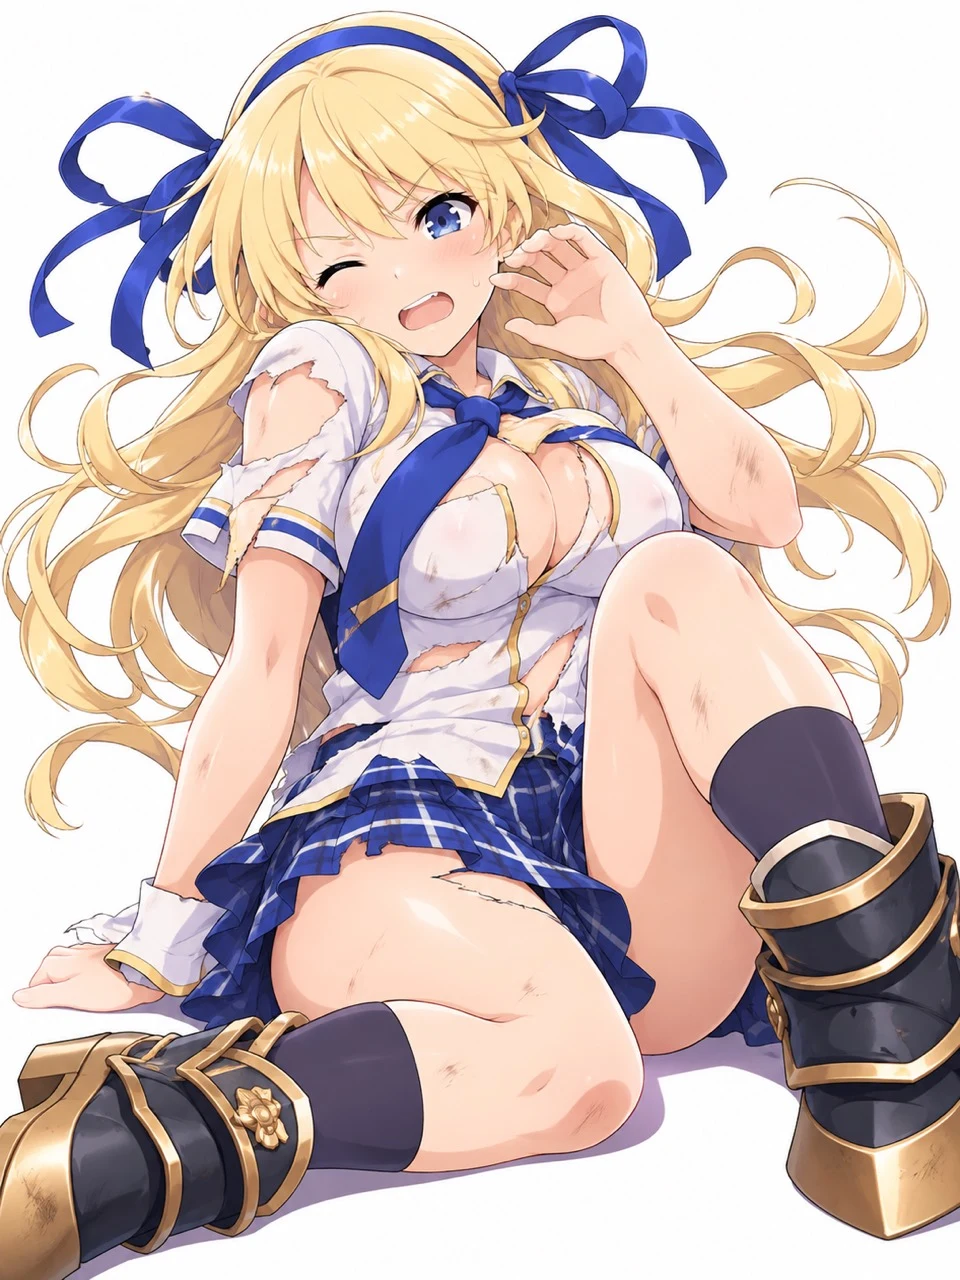
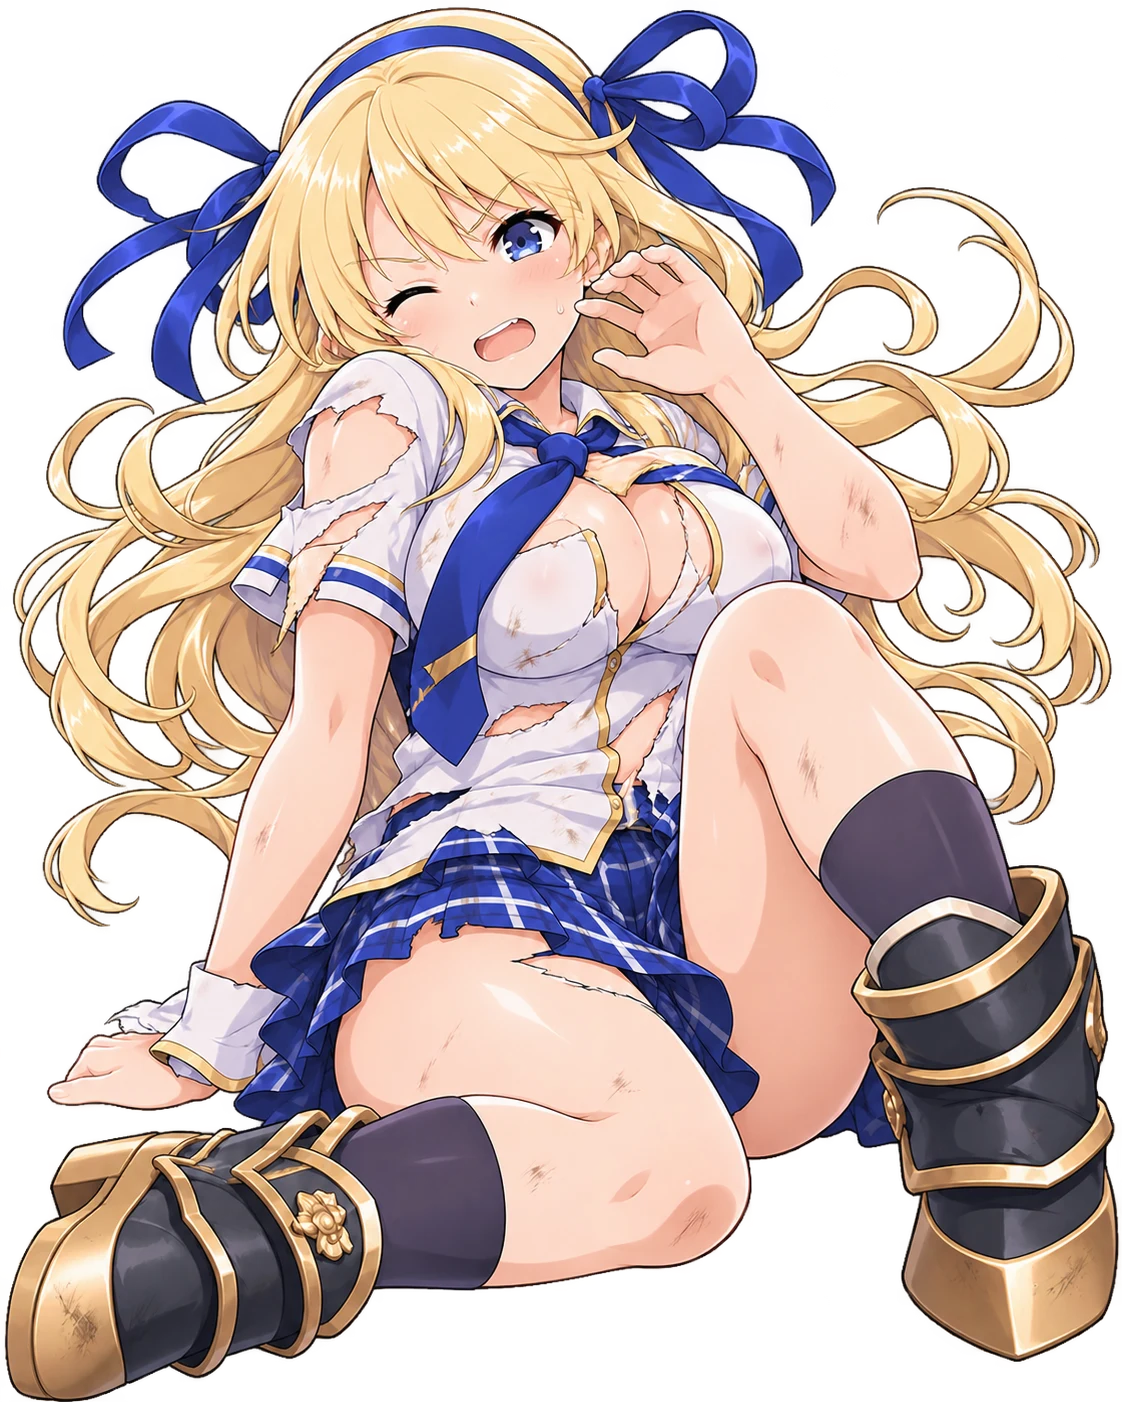
Use transparent backgrounds for character artwork

diff --git a/index.html b/index.html
@@ -1904,7 +1904,7 @@ if(typeof module!=='undefined'&&module.exports)module.exports=Solver; else root.
    - 記録は人間・CPUの区別なく全判断を含む。再生は記録を使い切ったら
      元のコントローラ（人間／CPU）に引き継ぐ（＝ログからの再開）
    ========================================================= */
-const UI_VER='演出v3.1';
+const UI_VER='演出v3.2';
 (function(root){
 const LOG_VERSION='v'+CONFIG.ruleVersion;
 
@@ -2458,11 +2458,11 @@ function nvGauge(p,z){const arr=z==='yo'?p.gYo:p.gIn;
 // Presentation-only artwork mapping. Each character level has its own image slot.
 // Lv1-Lv5 currently point to the same file; replace individual entries to add unique art later.
 const UVS_CHAR_ART_PATH=Object.freeze({
-  '飛鳥':Object.freeze([null,'./assets/characters/asuka.webp?v=3.0','./assets/characters/asuka.webp?v=3.0','./assets/characters/asuka.webp?v=3.0','./assets/characters/asuka-lv4.webp','./assets/characters/asuka-lv4.webp']),
-  '斑鳩':Object.freeze([null,'./assets/characters/ikaruga.webp','./assets/characters/ikaruga.webp','./assets/characters/ikaruga.webp','./assets/characters/ikaruga-lv4.webp','./assets/characters/ikaruga-lv4.webp']),
-  '葛城':Object.freeze([null,'./assets/characters/katsuragi.webp','./assets/characters/katsuragi.webp','./assets/characters/katsuragi.webp','./assets/characters/katsuragi-lv4.webp','./assets/characters/katsuragi-lv4.webp']),
-  '柳生':Object.freeze([null,'./assets/characters/yagyu-lv1.webp','./assets/characters/yagyu-lv1.webp','./assets/characters/yagyu-lv1.webp','./assets/characters/yagyu-lv4.webp','./assets/characters/yagyu-lv4.webp']),
-  '雲雀':Object.freeze([null,'./assets/characters/hibari.webp','./assets/characters/hibari.webp','./assets/characters/hibari.webp','./assets/characters/hibari-lv4.webp','./assets/characters/hibari-lv4.webp'])
+  '飛鳥':Object.freeze([null,'./assets/characters/asuka.webp?v=3.2','./assets/characters/asuka.webp?v=3.2','./assets/characters/asuka.webp?v=3.2','./assets/characters/asuka-lv4.webp?v=3.2','./assets/characters/asuka-lv4.webp?v=3.2']),
+  '斑鳩':Object.freeze([null,'./assets/characters/ikaruga.webp','./assets/characters/ikaruga.webp','./assets/characters/ikaruga.webp','./assets/characters/ikaruga-lv4.webp?v=3.2','./assets/characters/ikaruga-lv4.webp?v=3.2']),
+  '葛城':Object.freeze([null,'./assets/characters/katsuragi.webp','./assets/characters/katsuragi.webp','./assets/characters/katsuragi.webp','./assets/characters/katsuragi-lv4.webp?v=3.2','./assets/characters/katsuragi-lv4.webp?v=3.2']),
+  '柳生':Object.freeze([null,'./assets/characters/yagyu-lv1.webp?v=3.2','./assets/characters/yagyu-lv1.webp?v=3.2','./assets/characters/yagyu-lv1.webp?v=3.2','./assets/characters/yagyu-lv4.webp?v=3.2','./assets/characters/yagyu-lv4.webp?v=3.2']),
+  '雲雀':Object.freeze([null,'./assets/characters/hibari.webp','./assets/characters/hibari.webp','./assets/characters/hibari.webp','./assets/characters/hibari-lv4.webp?v=3.2','./assets/characters/hibari-lv4.webp?v=3.2'])
 });
 function nvChar(p,flip,lit,picked){const ch=window.FX?.character(p).card??p.charDeck[0];const level=window.FX?.levelNotice(p);const sups=p.supports.map(s=>s.card.name).join('・');const artPath=UVS_CHAR_ART_PATH[p.charName]?.[ch.lv];const artHtml=artPath?`<img class="uvs-character-art" src="${artPath}" alt="" aria-hidden="true" onerror="this.remove()">`:'';
   return `<div class="nv-char ${flip?'flip':''} ${lit?'lit':''} ${picked?'picked':''}" ${lit?'data-charv="1"':`data-uid="${ch.uid}"`}>${artHtml}<div class="t"><b>${p.charName}</b><span>Lv${ch.lv}</span></div><div class="s">AT ${ch.at}・DF ${ch.df}</div><div class="x">${cardText(ch)||''}</div>${level?`<span class="nv-level-notice">Lv${level.from} → Lv${level.to}</span>`:''}${sups?`<div class="sup">使用中：${sups}</div>`:''}${lit&&G.prompt.spec.charLabel?`<div class="sup">タップ：${G.prompt.spec.charLabel}</div>`:''}</div>`;}
